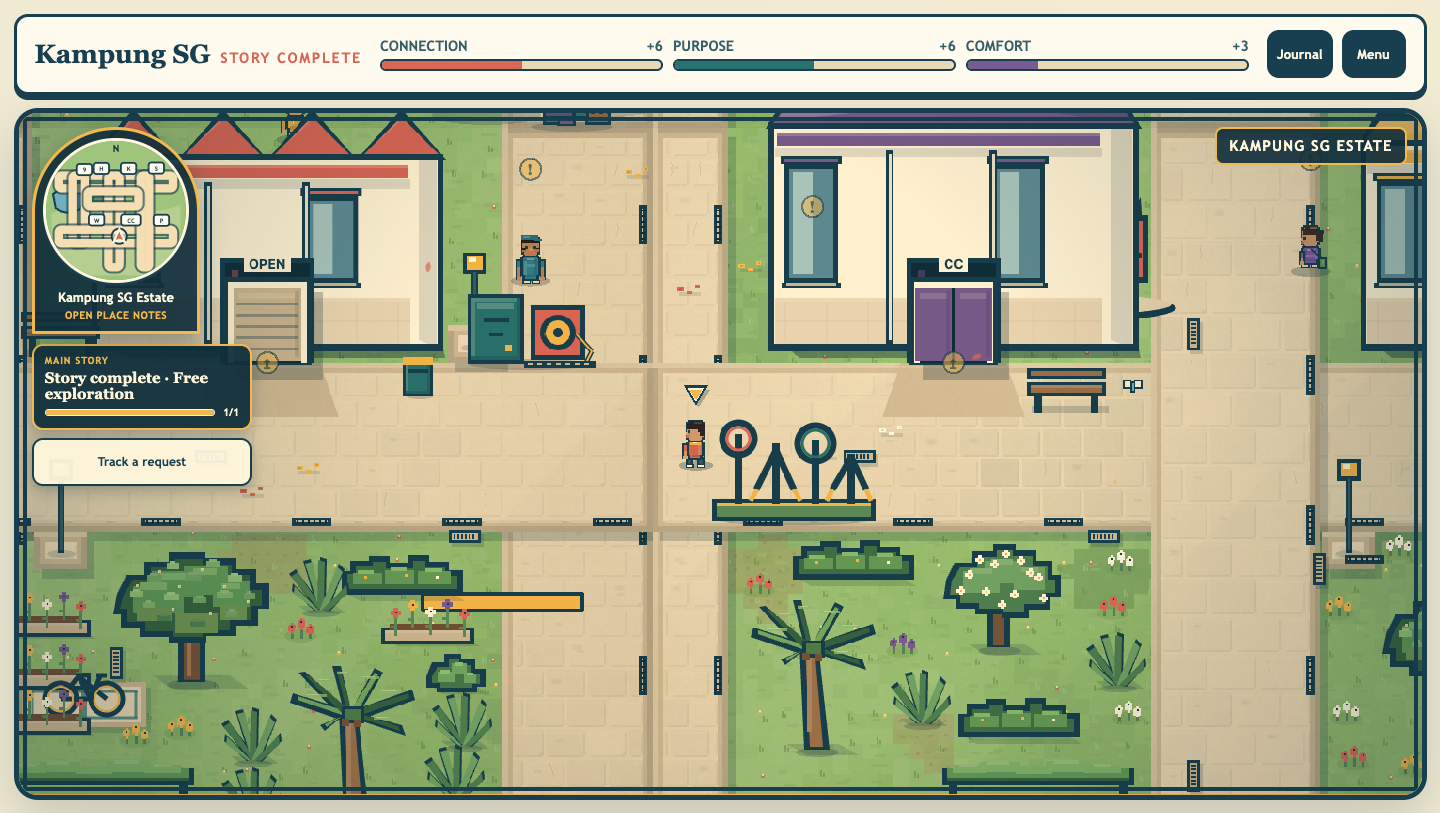
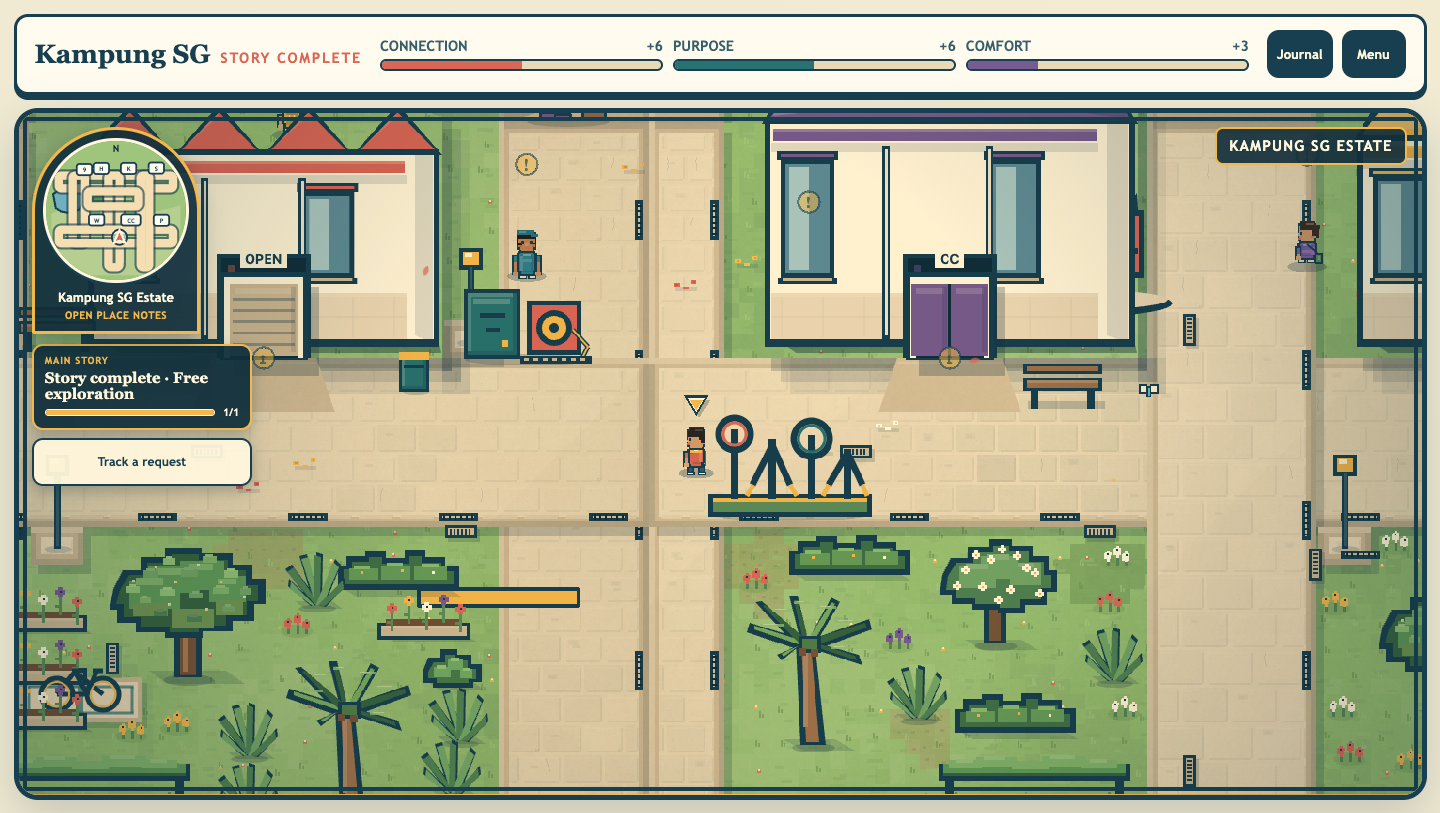
Let the buildings cast shadows so they stop floating
Nothing in the estate cast a ground shadow, so every building sat on the
grass like a pasted cutout. A shadow is what tells the eye an object has
volume and is standing on a surface - it does more for solidity than any
amount of detail on the object itself.

The first attempt offset the whole footprint, which was invisible: the
facade draws over its own bounds, so only a sliver showed at 8% alpha.
Rebuilt as bands stepping away from the wall base, each fainter and
shifted further right, plus a narrow strip down the away-from-sun side so
the east wall has depth rather than a hard edge. Sun stays upper-left,
matching the highlight bands already on the facades.

Baked into the terrain pass, so it costs nothing per frame.

Gate: typecheck clean, 137 tests, 65/65 smoke, 0 vulnerabilities.

diff --git a/src/game/threeQuarterArt.ts b/src/game/threeQuarterArt.ts
@@ -310,6 +310,54 @@ export function paintThreeQuarterTerrain(
     );
   }
 
+  // Ground shadows.
+  //
+  // Nothing in the estate cast one, so every building sat on the grass like a
+  // pasted cutout. A shadow is what tells the eye an object has volume and is
+  // standing on the surface rather than printed onto it - it does more for
+  // solidity than any amount of detail on the object itself.
+  //
+  // Sun is upper-left, matching the existing highlight bands on the facades,
+  // so shadows fall down and to the right. Three stacked passes give a soft
+  // edge without a blur, which Graphics cannot do.
+  // Bands stepping away from the wall base, each fainter and shifted further
+  // right, so the shadow pools at the foot of the building and leans with the
+  // sun. Offsetting the whole footprint instead would be hidden under the
+  // facade, which is what the first attempt at this got wrong.
+  const SHADOW_BANDS = [
+    { depth: 14, shiftX: 10, alpha: 0.2 },
+    { depth: 26, shiftX: 20, alpha: 0.13 },
+    { depth: 38, shiftX: 30, alpha: 0.07 },
+  ] as const;
+  for (const definition of ESTATE_BUILDINGS) {
+    const zone = definition.bounds;
+    const baseX = zone.x - originX;
+    const baseY = zone.y - originY;
+    if (
+      baseX > width + 120
+      || baseX + zone.width < -120
+      || baseY > height + 140
+      || baseY + zone.height < -140
+    ) {
+      continue;
+    }
+    const footY = baseY + zone.height;
+    // Painted back to front so the darkest band lands nearest the wall.
+    for (const band of [...SHADOW_BANDS].reverse()) {
+      graphics
+        .fillStyle(PALETTE.night, band.alpha)
+        .fillRect(baseX + band.shiftX, footY, zone.width, band.depth)
+        // A narrow strip down the sunward-away side, so the east wall reads
+        // as having depth too rather than ending at a hard edge.
+        .fillRect(
+          baseX + zone.width,
+          baseY + band.depth,
+          band.shiftX,
+          zone.height - band.depth + band.depth,
+        );
+    }
+  }
+
   for (const definition of ESTATE_BUILDINGS) {
     if (!definition.entranceDoorId) continue;
     const anchorX = definition.minimapAnchor.x - originX;
